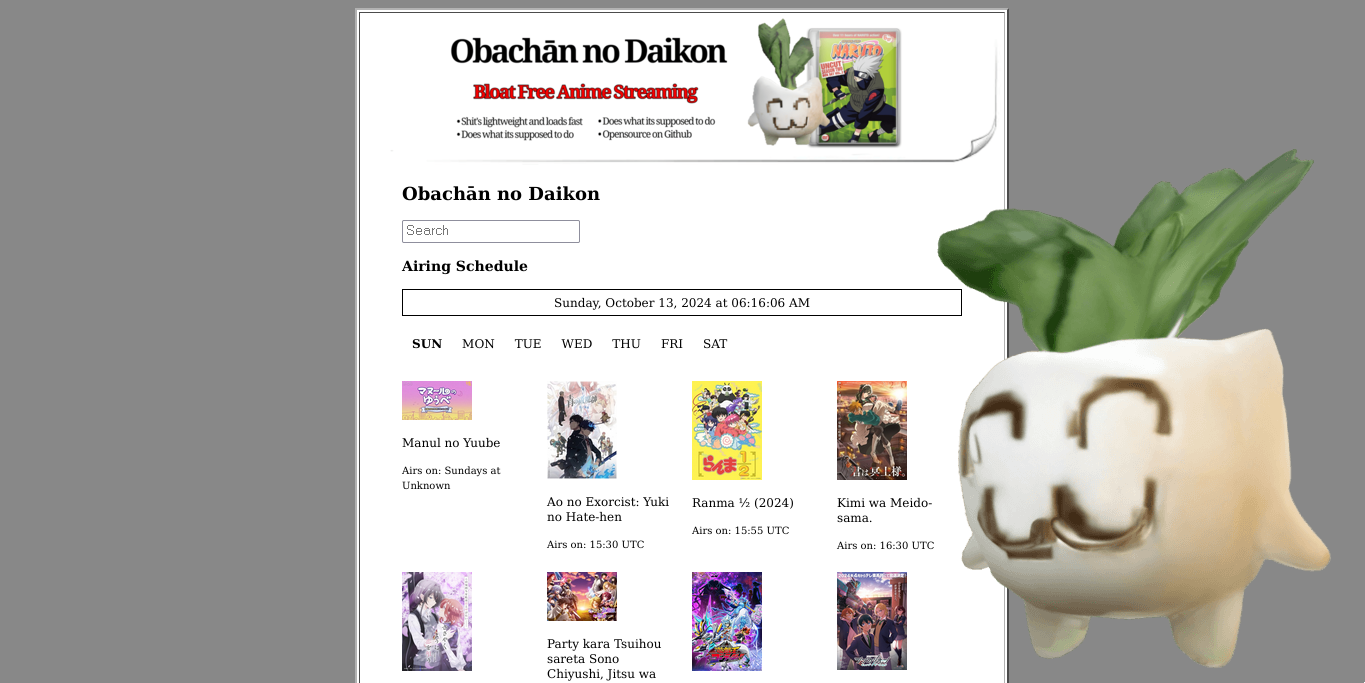
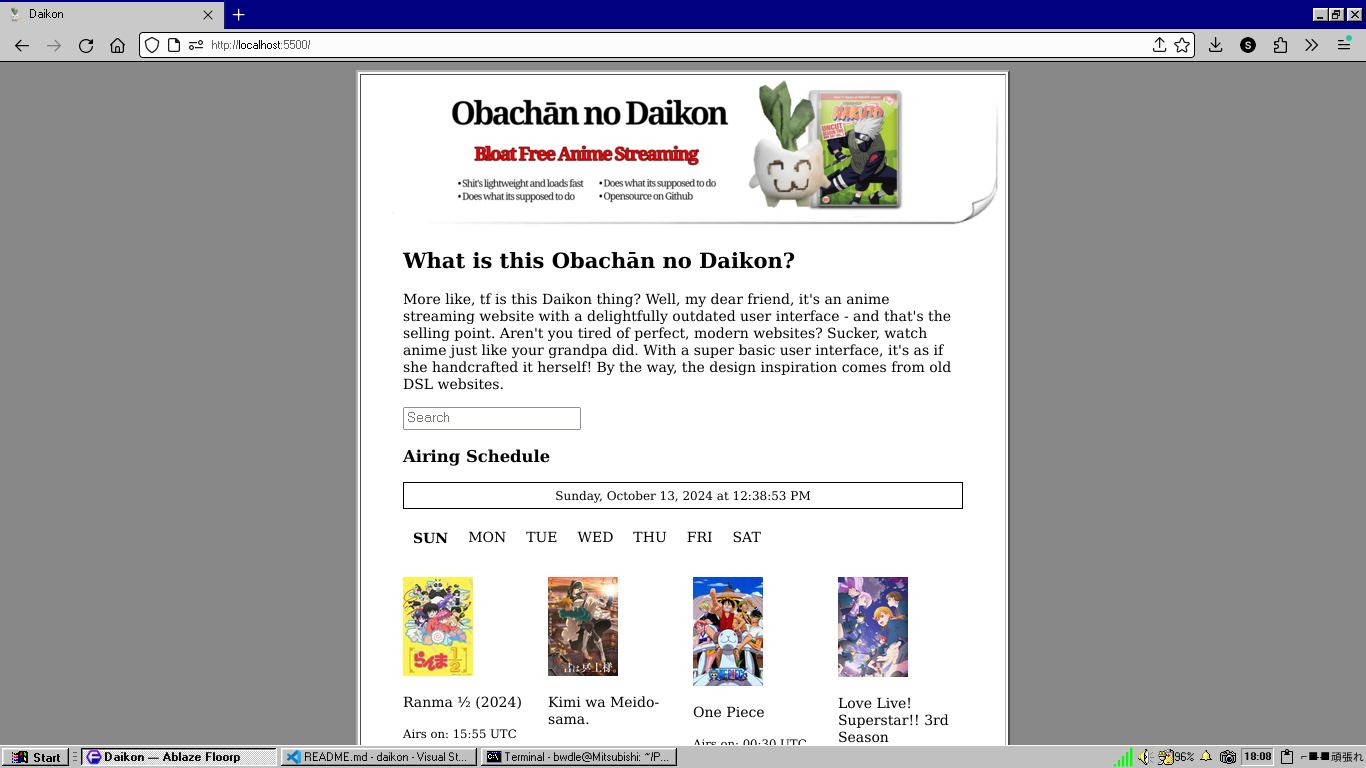
Add README

diff --git a/README.md b/README.md
@@ -1,0 +1,26 @@
+<h1 align="center">
+  <p align="center"><strong>Obachān no Daikon</strong></p>
+  <a href="https://sakamoto.live"><img src="./assets/hero.png" alt="Cover" style="border-radius:12px"></a>
+  <img src="./assets/badges/anybrowser2.gif">
+<img src="./assets/badges/bestviewed16bit.gif">
+<img src="./assets/badges/blink.gif">
+<img src="./assets/badges/built_with_microsoft_notepad.gif">
+<img src="./assets/badges/3dot5mmfc-button.gif">
+</h1>
+
+## **Daikon**
+<p>Daikon is an anime streaming site with a purposely outdated, basic interface. It's designed to provide an old-school viewing experience.</p>
+                           
+<img src="./assets/screenshot.png" style="border-radius:12px">
+
+
+## **Features**
+
+<img src="./assets/daiko.png" width=150 align=right>
+
+List of current and upcoming features:
+
+- [x] Anime schedule
+- [x] Subbed only
+- [x] Responsive (kinda)
+- [ ] Ehh...
